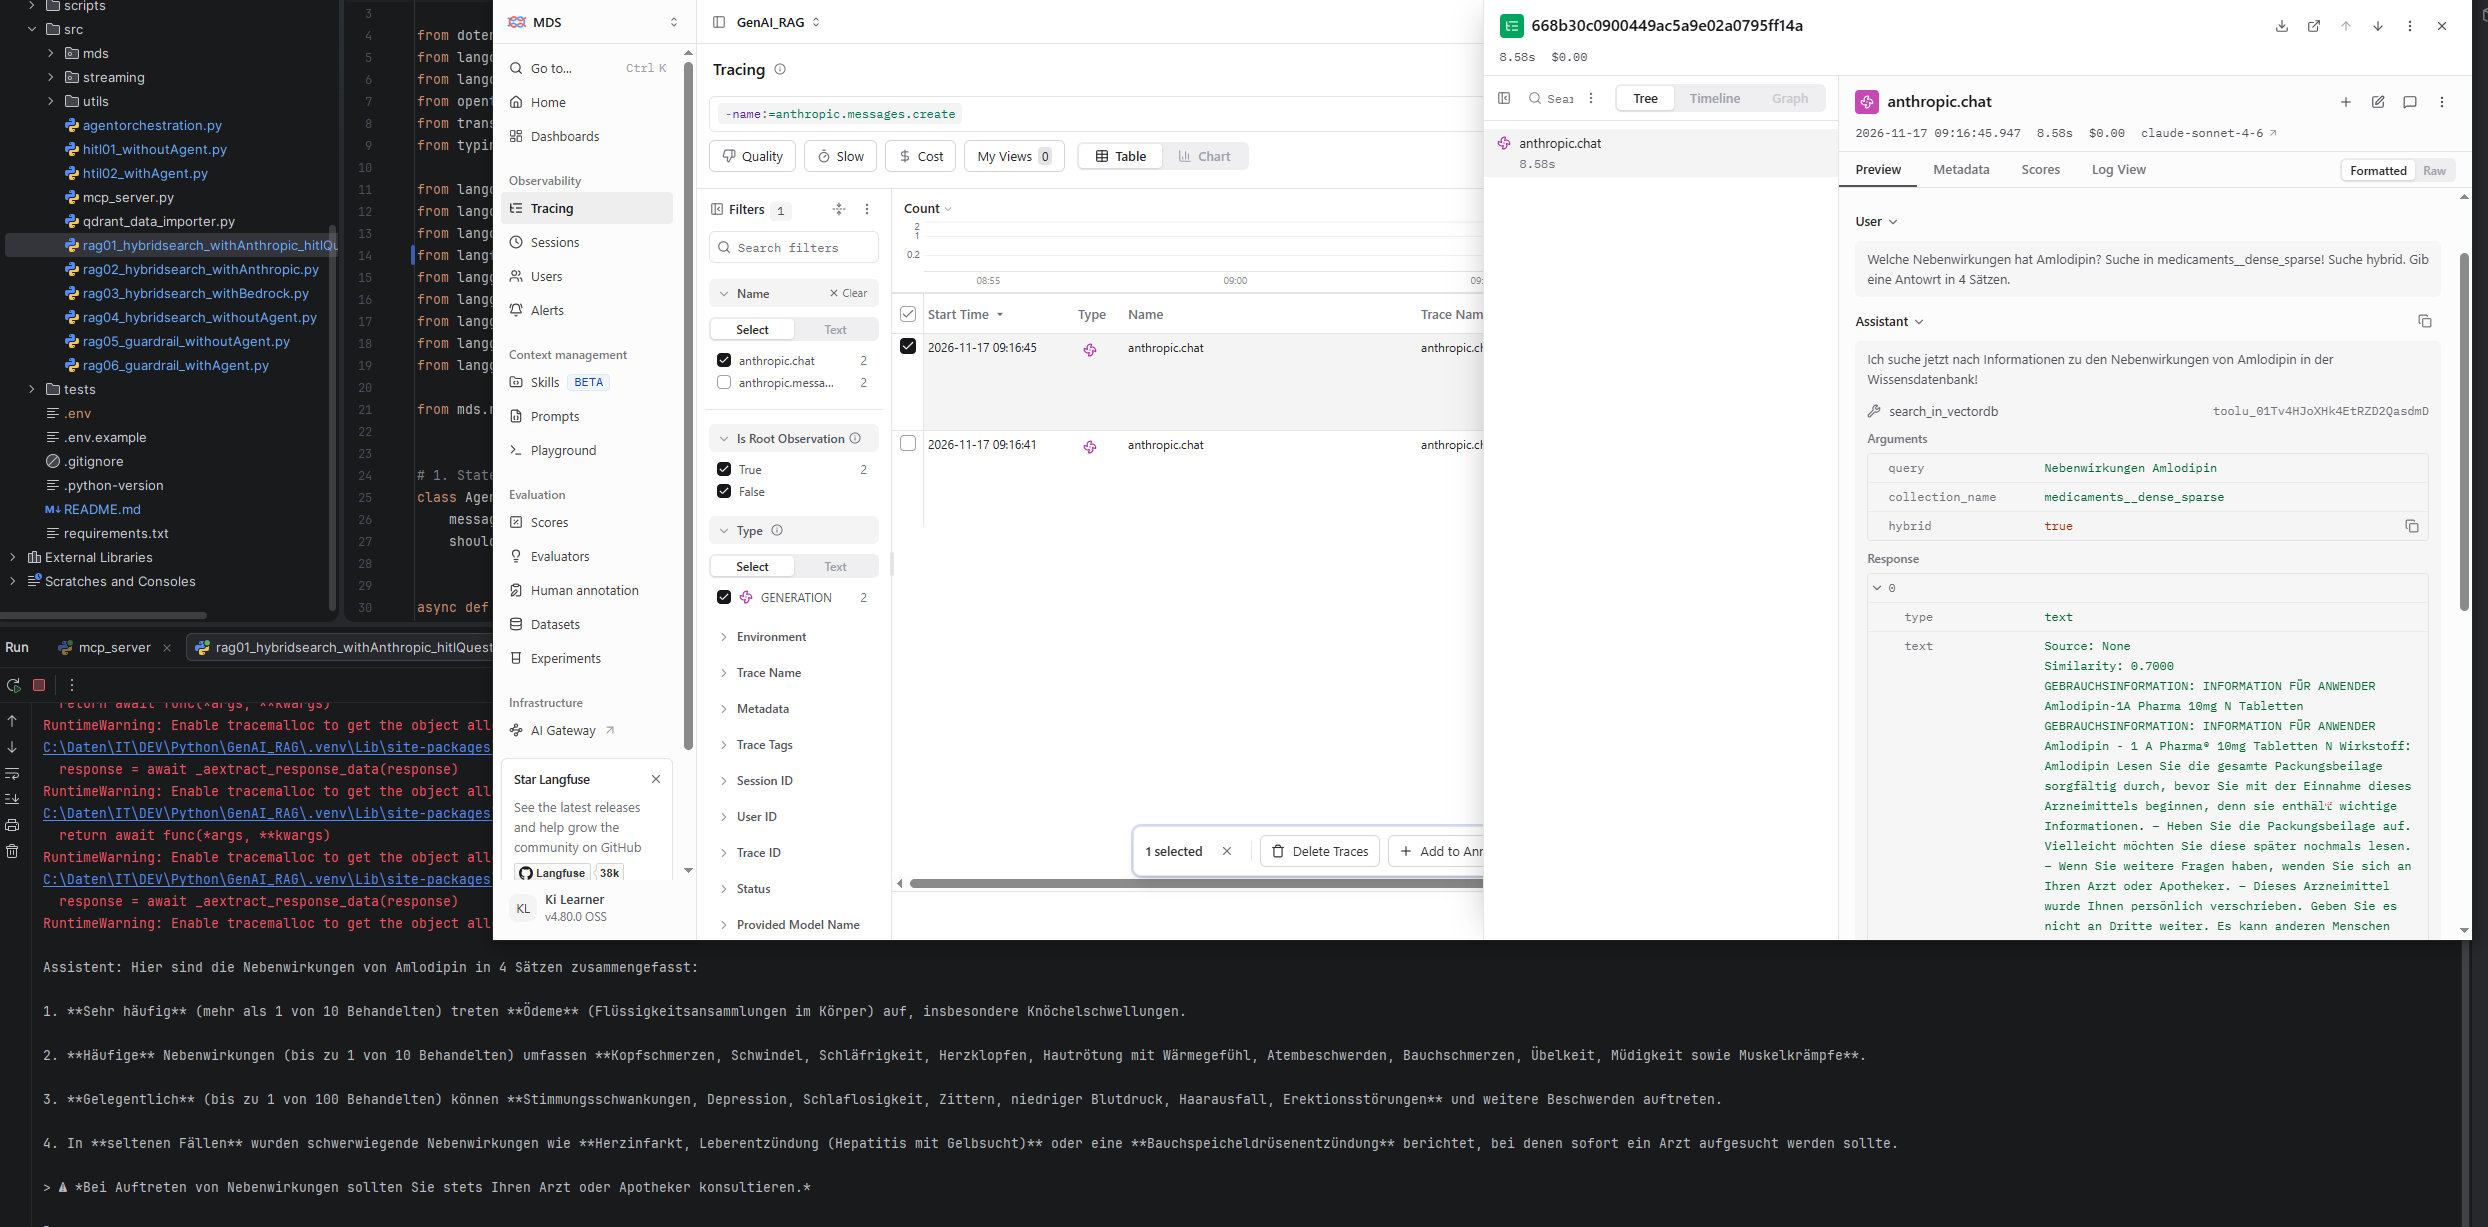
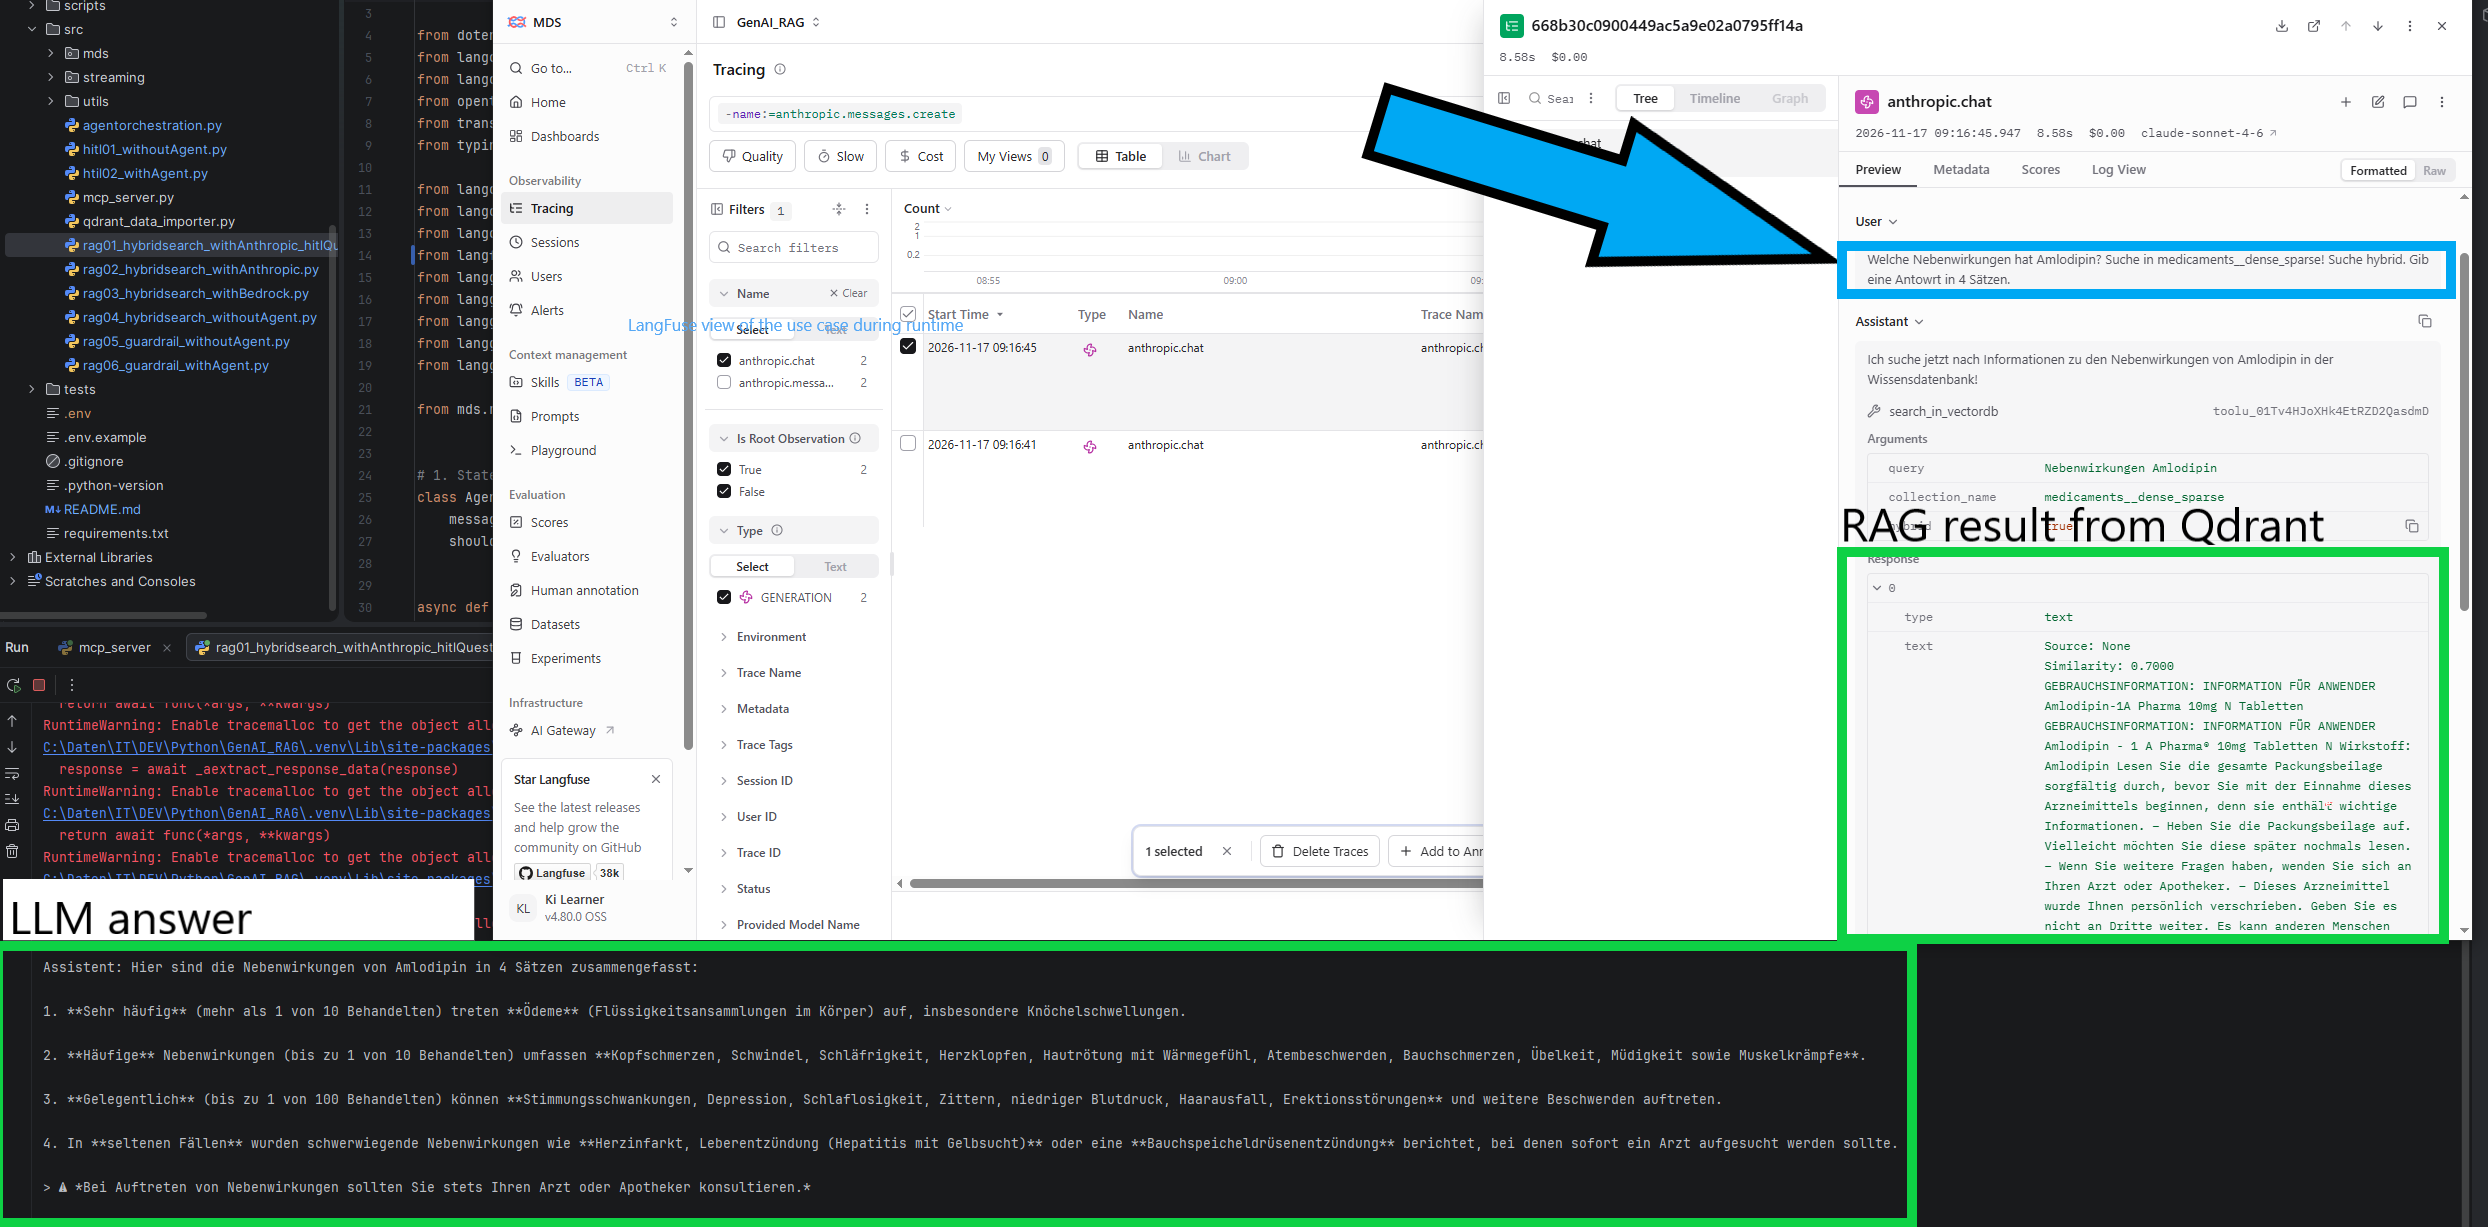
Show LangFuse observability of use case rag01

Changed region(s): [[0.0, 0.4026, 0.9904, 1.0], [0.5261, 0.0619, 0.9904, 0.2478], [0.2476, 0.2478, 0.3714, 0.2787]]

diff --git a/README.md b/README.md
@@ -35,6 +35,11 @@ For HuggingFace model usage ( reranking ) the HF_TOKEN must be set.
 
 **rag01_hybridsearch_withAnthropic_hitlQuestionLoop_langFuse ( with LLM and with MCP - with HITL for question loop )**
 
+<figure>
+  <img src="./data/results/observability/LangFuse_Traces02_rag01.png" alt="LangFuse view of the use case during runtime">
+  <figcaption>LangFuse view of the use case rag01 during runtime</figcaption>
+</figure>
+
 ( Log output of this usecase: => data/results/logs/baai_hyb_llm_loop.txt )
 
 In this scenario an LLM decides what is to be done to answer the prompt question 
@@ -97,7 +102,7 @@ Welche Nebenwirkung hat Amlodipin? Nutze Datenbank medicaments__dense_sparse! Ne
                         
 quit
 
-![LangFuse view of the use case during runtime](./data/results/observability/LangFuse_Traces02_rag01.png)
+
 
 
 **-------------------------------------------------------------------------------------------------------------------**
